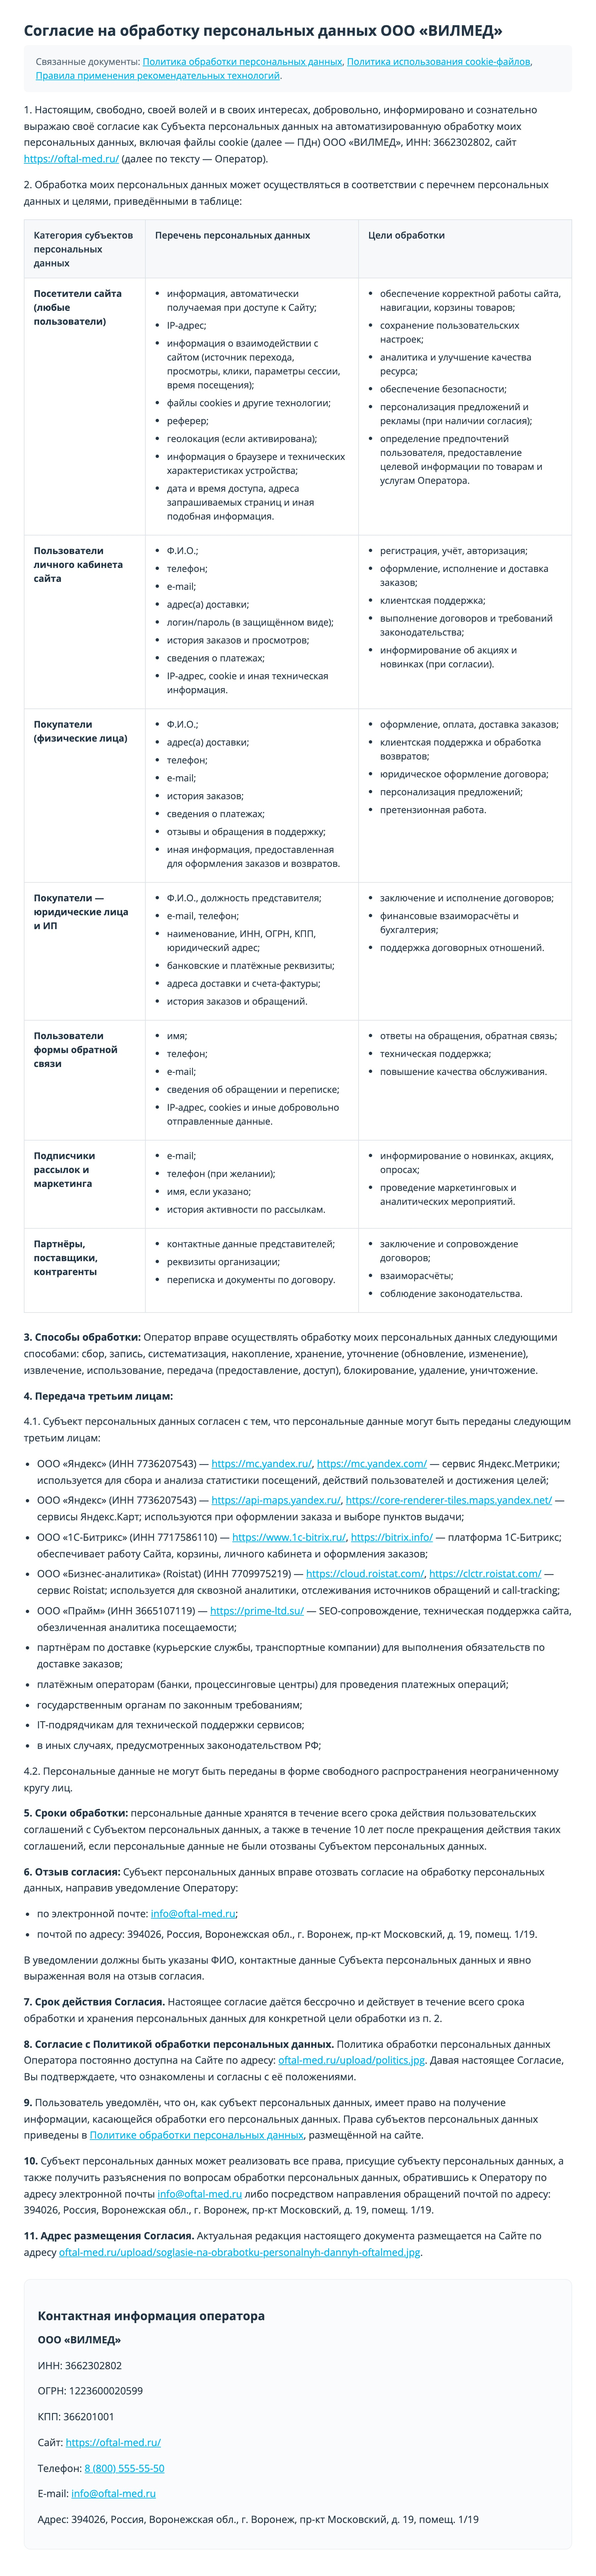
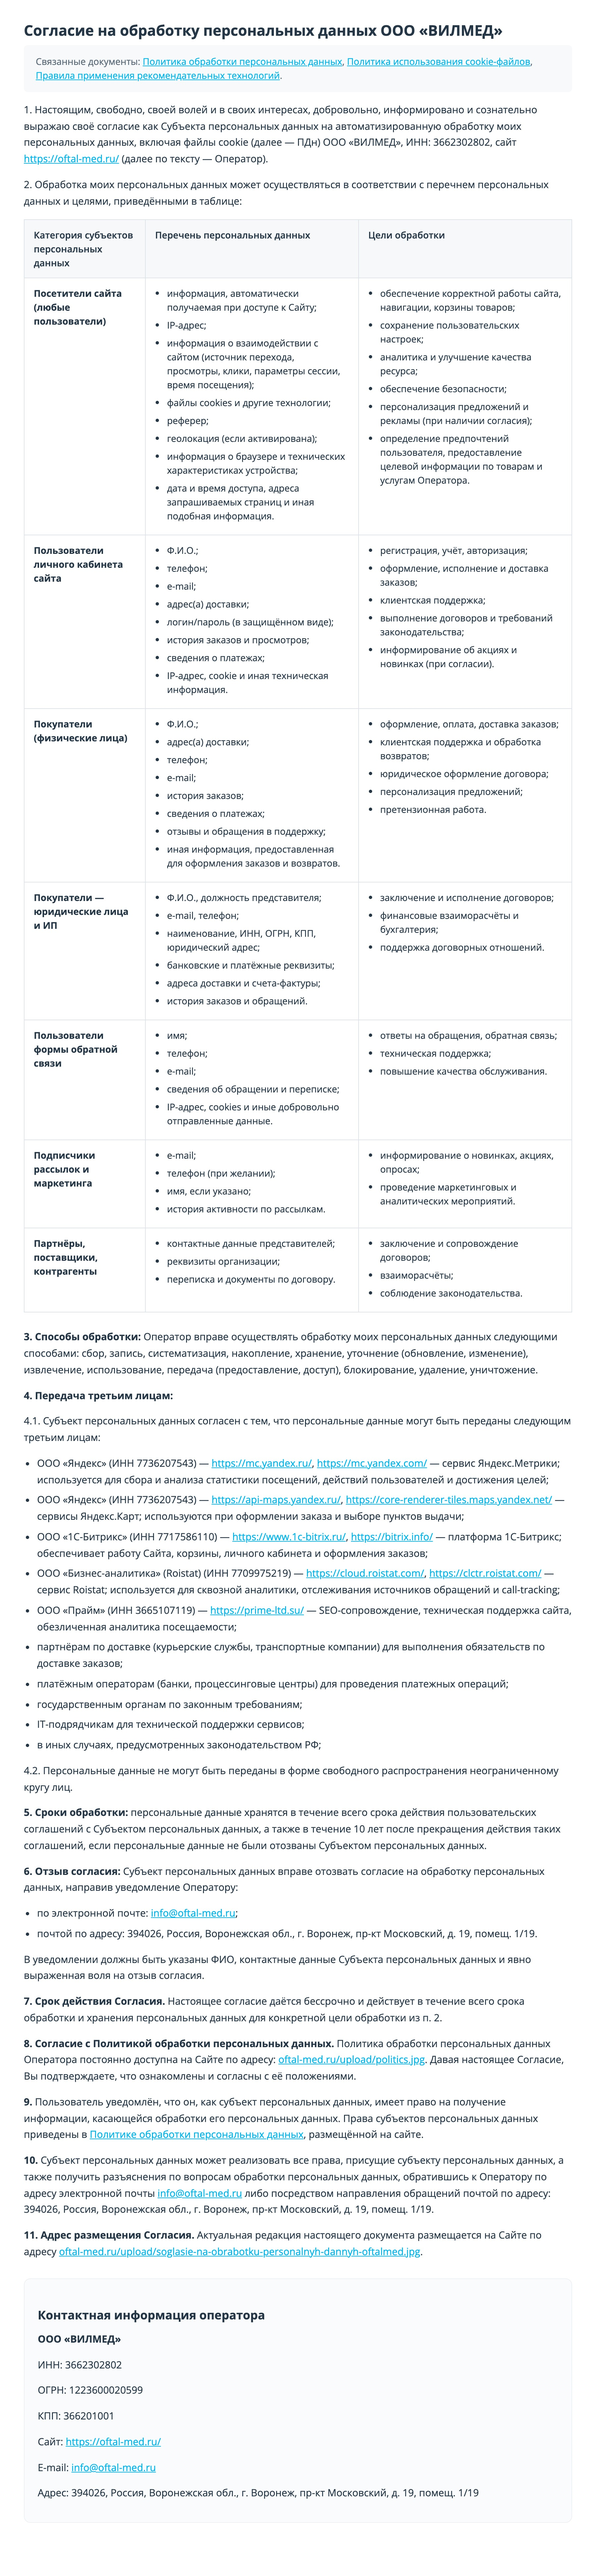
Remove phone number from all legal policies and regenerate policy images.

diff --git a/local/php_interface/include/legal/personal_data_content.php b/local/php_interface/include/legal/personal_data_content.php
@@ -225,8 +225,7 @@ $thirdParties = oftalMedLegalThirdPartiesData();
     <p>5.2. Для реализации прав Субъект может обратиться к Оператору:</p>
     <ul>
         <li>по адресу: <?= legal_var($legal['address_legal']) ?>;</li>
-        <li>по e-mail: <?= legal_mailto($legal['email']) ?>;</li>
-        <li>по телефону: <?= legal_tel($legal['phone'], $legal['phone_tel']) ?>.</li>
+        <li>по e-mail: <?= legal_mailto($legal['email']) ?>.</li>
     </ul>
     <p>5.3. Оператор рассматривает обращение и направляет ответ в течение 10 рабочих дней с момента получения, если иной срок не установлен законом.</p>
 
@@ -275,7 +274,6 @@ $thirdParties = oftalMedLegalThirdPartiesData();
         <p>ОГРН: <?= legal_var($legal['ogrn']) ?></p>
         <p>КПП: <?= legal_var($legal['kpp']) ?></p>
         <p>Сайт: <?= legal_link($legal['site']) ?></p>
-        <p>Телефон: <?= legal_tel($legal['phone'], $legal['phone_tel']) ?></p>
         <p>E-mail: <?= legal_mailto($legal['email']) ?></p>
         <p>Адрес: <?= legal_var($legal['address_legal']) ?></p>
     </div>

diff --git a/local/php_interface/include/legal/cookie_content.php b/local/php_interface/include/legal/cookie_content.php
@@ -65,7 +65,6 @@ require_once __DIR__ . '/third_parties_render.php';
         <p>ОГРН: <?= legal_var($legal['ogrn']) ?></p>
         <p>КПП: <?= legal_var($legal['kpp']) ?></p>
         <p>Сайт: <?= legal_link($legal['site']) ?></p>
-        <p>Телефон: <?= legal_tel($legal['phone'], $legal['phone_tel']) ?></p>
         <p>E-mail: <?= legal_mailto($legal['email']) ?></p>
         <p>Адрес: <?= legal_var($legal['address_legal']) ?></p>
     </div>

diff --git a/local/php_interface/include/legal/consent_content.php b/local/php_interface/include/legal/consent_content.php
@@ -216,7 +216,6 @@ $thirdParties = oftalMedLegalThirdPartiesData();
         <p>ОГРН: <?= legal_var($legal['ogrn']) ?></p>
         <p>КПП: <?= legal_var($legal['kpp']) ?></p>
         <p>Сайт: <?= legal_link($legal['site']) ?></p>
-        <p>Телефон: <?= legal_tel($legal['phone'], $legal['phone_tel']) ?></p>
         <p>E-mail: <?= legal_mailto($legal['email']) ?></p>
         <p>Адрес: <?= legal_var($legal['address_legal']) ?></p>
     </div>

diff --git a/local/php_interface/include/legal/recommendation_content.php b/local/php_interface/include/legal/recommendation_content.php
@@ -67,7 +67,6 @@ $thirdParties = oftalMedLegalThirdPartiesData();
         <p>ОГРН: <?= legal_var($legal['ogrn']) ?></p>
         <p>КПП: <?= legal_var($legal['kpp']) ?></p>
         <p>Сайт: <?= legal_link($legal['site']) ?></p>
-        <p>Телефон: <?= legal_tel($legal['phone'], $legal['phone_tel']) ?></p>
         <p>E-mail: <?= legal_mailto($legal['email']) ?></p>
         <p>Адрес: <?= legal_var($legal['address_legal']) ?></p>
     </div>
